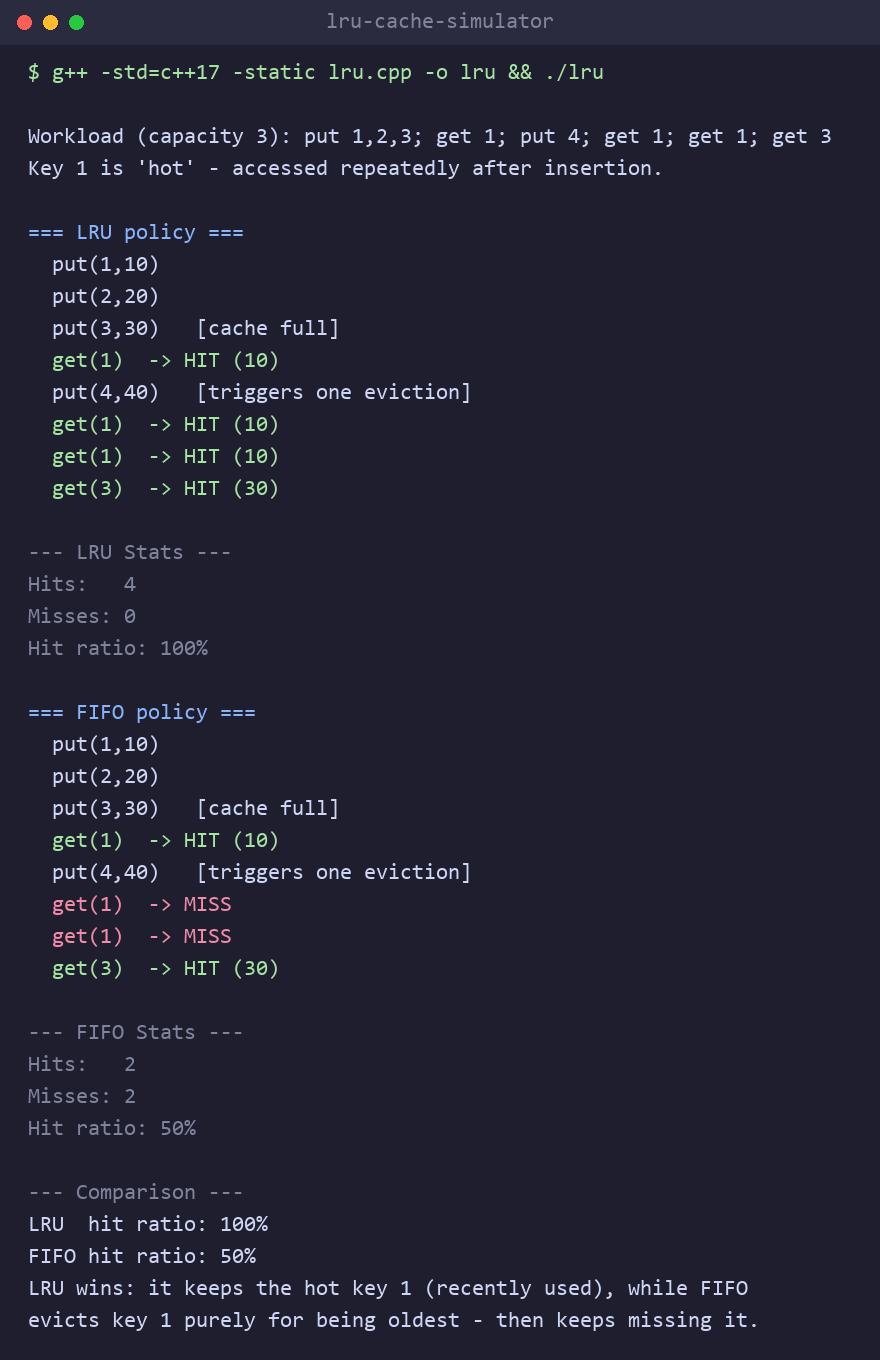
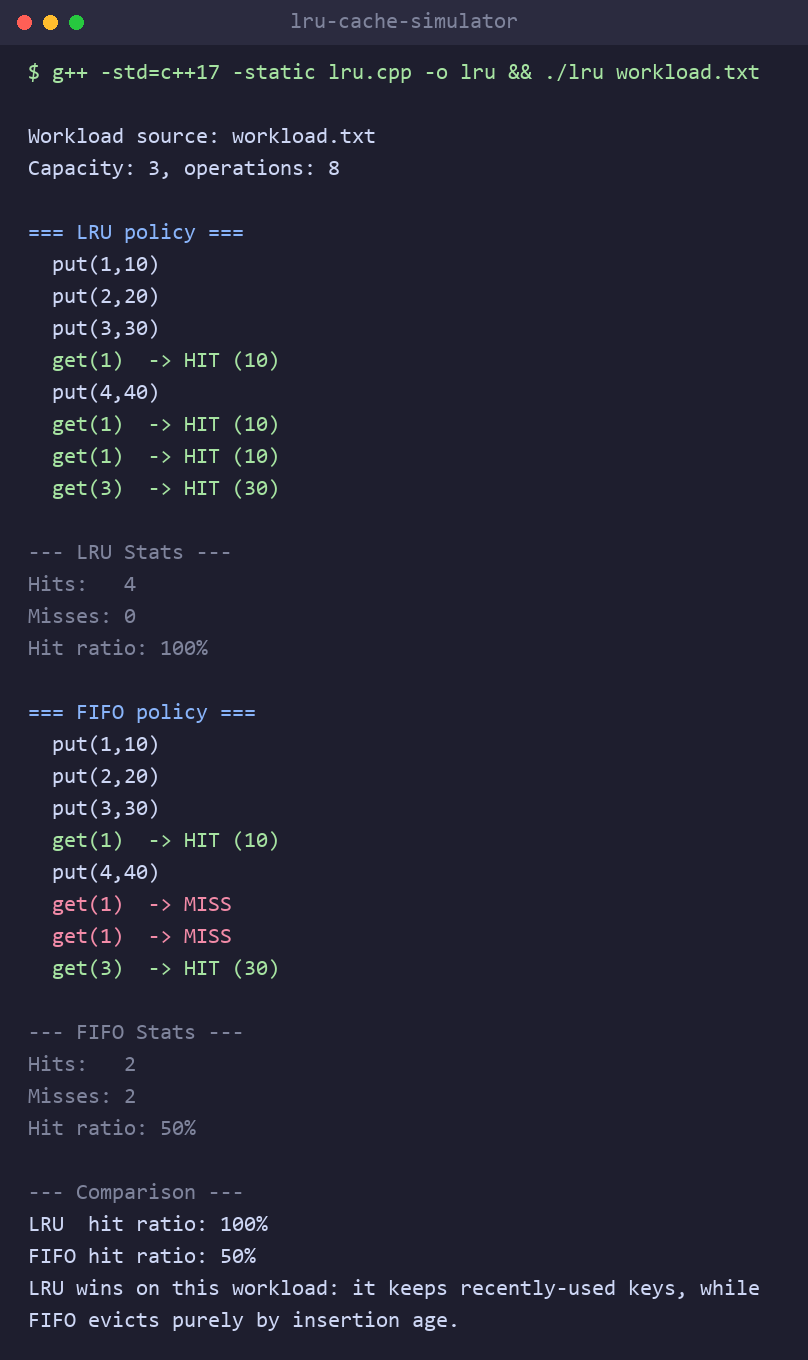
Add file-driven workloads
Parse a workload file (cap/put/get, # comments) into a vector<Op> and replay
it through both policies. main() takes an optional file-path arg and falls back
to the built-in demo when none is given; missing file exits non-zero. Add
workload.txt sample, README usage docs, refreshed screenshot.

diff --git a/lru.cpp b/lru.cpp
@@ -1,6 +1,9 @@
 #include <iostream>
 #include <unordered_map>
 #include <string>
+#include <vector>
+#include <fstream>
+#include <sstream>
 using namespace std;
 
 // Eviction policy. LRU moves a node to the front whenever it is used;
@@ -138,7 +141,16 @@ public:
     }
 };
 
-// Helper for the demo: run a get and print HIT/MISS with the value.
+// One parsed operation. type 'p' = put (uses key+value), 'g' = get (uses key).
+// We parse the whole workload into a list of these so it can be REPLAYED
+// through more than one cache (a file stream can only be read once).
+struct Op {
+    char type;
+    int key;
+    int value;
+};
+
+// Run a get and print HIT/MISS with the value.
 void tryGet(Cache& cache, int key) {
     int v = cache.get(key);
     if (v == -1)
@@ -147,38 +159,96 @@ void tryGet(Cache& cache, int key) {
         cout << "  get(" << key << ")  -> HIT (" << v << ")\n";
 }
 
-// The SAME sequence of operations, run against whichever cache is passed in.
-// Key 1 is "hot": inserted, then accessed repeatedly. Key 4 forces an eviction.
-void runWorkload(Cache& cache) {
-    cache.put(1, 10);  cout << "  put(1,10)\n";
-    cache.put(2, 20);  cout << "  put(2,20)\n";
-    cache.put(3, 30);  cout << "  put(3,30)   [cache full]\n";
-    tryGet(cache, 1);              // touch the hot key before the eviction
-    cache.put(4, 40);  cout << "  put(4,40)   [triggers one eviction]\n";
-    tryGet(cache, 1);              // hot key again
-    tryGet(cache, 1);              // and again
-    tryGet(cache, 3);
+// Execute a parsed workload against one cache, printing each step.
+void runOps(Cache& cache, const vector<Op>& ops) {
+    for (const Op& op : ops) {
+        if (op.type == 'p') {
+            cache.put(op.key, op.value);
+            cout << "  put(" << op.key << "," << op.value << ")\n";
+        } else {
+            tryGet(cache, op.key);
+        }
+    }
 }
 
-int main() {
-    cout << "Workload (capacity 3): put 1,2,3; get 1; put 4; get 1; get 1; get 3\n";
-    cout << "Key 1 is 'hot' - accessed repeatedly after insertion.\n";
+// Built-in workload used when no file is given. Key 1 is "hot" (read repeatedly).
+vector<Op> defaultOps() {
+    return { {'p',1,10}, {'p',2,20}, {'p',3,30}, {'g',1,0},
+             {'p',4,40}, {'g',1,0}, {'g',1,0}, {'g',3,0} };
+}
 
-    Cache lru(3, Policy::LRU, "LRU");
+// Parse a workload file into `ops`, updating `capacity` if a `cap` line is seen.
+// Format (one directive per line): `cap N`, `put KEY VALUE`, `get KEY`.
+// Blank lines and lines starting with '#' are ignored. Returns false if the
+// file can't be opened.
+bool loadOps(const string& path, vector<Op>& ops, int& capacity) {
+    ifstream in(path);
+    if (!in) return false;
+
+    string line;
+    while (getline(in, line)) {
+        istringstream iss(line);
+        string cmd;
+        if (!(iss >> cmd)) continue;        // blank / whitespace-only line
+        if (cmd[0] == '#') continue;        // comment
+
+        if (cmd == "cap") {
+            iss >> capacity;
+        } else if (cmd == "put") {
+            int k, v;
+            iss >> k >> v;
+            ops.push_back({'p', k, v});
+        } else if (cmd == "get") {
+            int k;
+            iss >> k;
+            ops.push_back({'g', k, 0});
+        } else {
+            cerr << "  (skipping unknown command: " << cmd << ")\n";
+        }
+    }
+    return true;
+}
+
+int main(int argc, char* argv[]) {
+    int capacity = 3;
+    vector<Op> ops;
+    string source;
+
+    if (argc > 1) {
+        // File-driven: read the workload from the given path.
+        if (!loadOps(argv[1], ops, capacity)) {
+            cerr << "Error: could not open workload file '" << argv[1] << "'\n";
+            return 1;
+        }
+        source = argv[1];
+    } else {
+        // No file given: fall back to the built-in demo workload.
+        ops = defaultOps();
+        source = "built-in demo (pass a file path to use your own)";
+    }
+
+    cout << "Workload source: " << source << "\n";
+    cout << "Capacity: " << capacity << ", operations: " << ops.size() << "\n";
+
+    Cache lru(capacity, Policy::LRU, "LRU");
     cout << "\n=== LRU policy ===\n";
-    runWorkload(lru);
+    runOps(lru, ops);
     lru.printStats();
 
-    Cache fifo(3, Policy::FIFO, "FIFO");
+    Cache fifo(capacity, Policy::FIFO, "FIFO");
     cout << "\n=== FIFO policy ===\n";
-    runWorkload(fifo);
+    runOps(fifo, ops);
     fifo.printStats();
 
     cout << "\n--- Comparison ---\n";
     cout << "LRU  hit ratio: " << lru.hitRatio() * 100 << "%\n";
     cout << "FIFO hit ratio: " << fifo.hitRatio() * 100 << "%\n";
     if (lru.hitRatio() > fifo.hitRatio())
-        cout << "LRU wins: it keeps the hot key 1 (recently used), while FIFO\n"
-             << "evicts key 1 purely for being oldest - then keeps missing it.\n";
+        cout << "LRU wins on this workload: it keeps recently-used keys, while\n"
+             << "FIFO evicts purely by insertion age.\n";
+    else if (fifo.hitRatio() > lru.hitRatio())
+        cout << "FIFO wins on this workload.\n";
+    else
+        cout << "Both policies tie on this workload.\n";
     return 0;
 }

diff --git a/README.md b/README.md
@@ -68,17 +68,48 @@ Dynamic linking is broken on my machine, so build statically:
 
 ```bash
 g++ -std=c++17 -static lru.cpp -o lru
-./lru
+./lru                # runs the built-in demo workload
+./lru workload.txt   # runs your own workload from a file
+```
+
+## Workload files
+
+Instead of the built-in demo, you can drive the simulator from a text file and
+compare LRU vs FIFO on your own access trace. Format (one directive per line):
+
+| Line          | Meaning                                        |
+|---------------|------------------------------------------------|
+| `cap N`       | Set the cache capacity to `N`.                 |
+| `put KEY VAL` | Insert or update `KEY` with value `VAL`.       |
+| `get KEY`     | Look up `KEY` (counts as a hit or a miss).     |
+| `# ...`       | Comment — ignored. Blank lines ignored too.    |
+
+The workload is parsed into a list of operations once, then replayed through
+both an LRU and a FIFO cache so the comparison is apples-to-apples. See
+[`workload.txt`](workload.txt) for an example:
+
+```
+cap 3
+put 1 10
+put 2 20
+put 3 30
+get 1
+put 4 40
+get 1
+get 1
+get 3
 ```
 
 ## Sample output
 
-The same workload (key 1 is "hot" — read repeatedly) run through both policies:
+Running `./lru workload.txt` (key 1 is "hot" — read repeatedly) through both
+policies:
 
 ![Demo run comparing LRU and FIFO](demo.png)
 
 ```
-Workload (capacity 3): put 1,2,3; get 1; put 4; get 1; get 1; get 3
+Workload source: workload.txt
+Capacity: 3, operations: 8
 
 === LRU policy ===   -> Hits: 4  Misses: 0  Hit ratio: 100%
 === FIFO policy ===  -> Hits: 2  Misses: 2  Hit ratio: 50%
